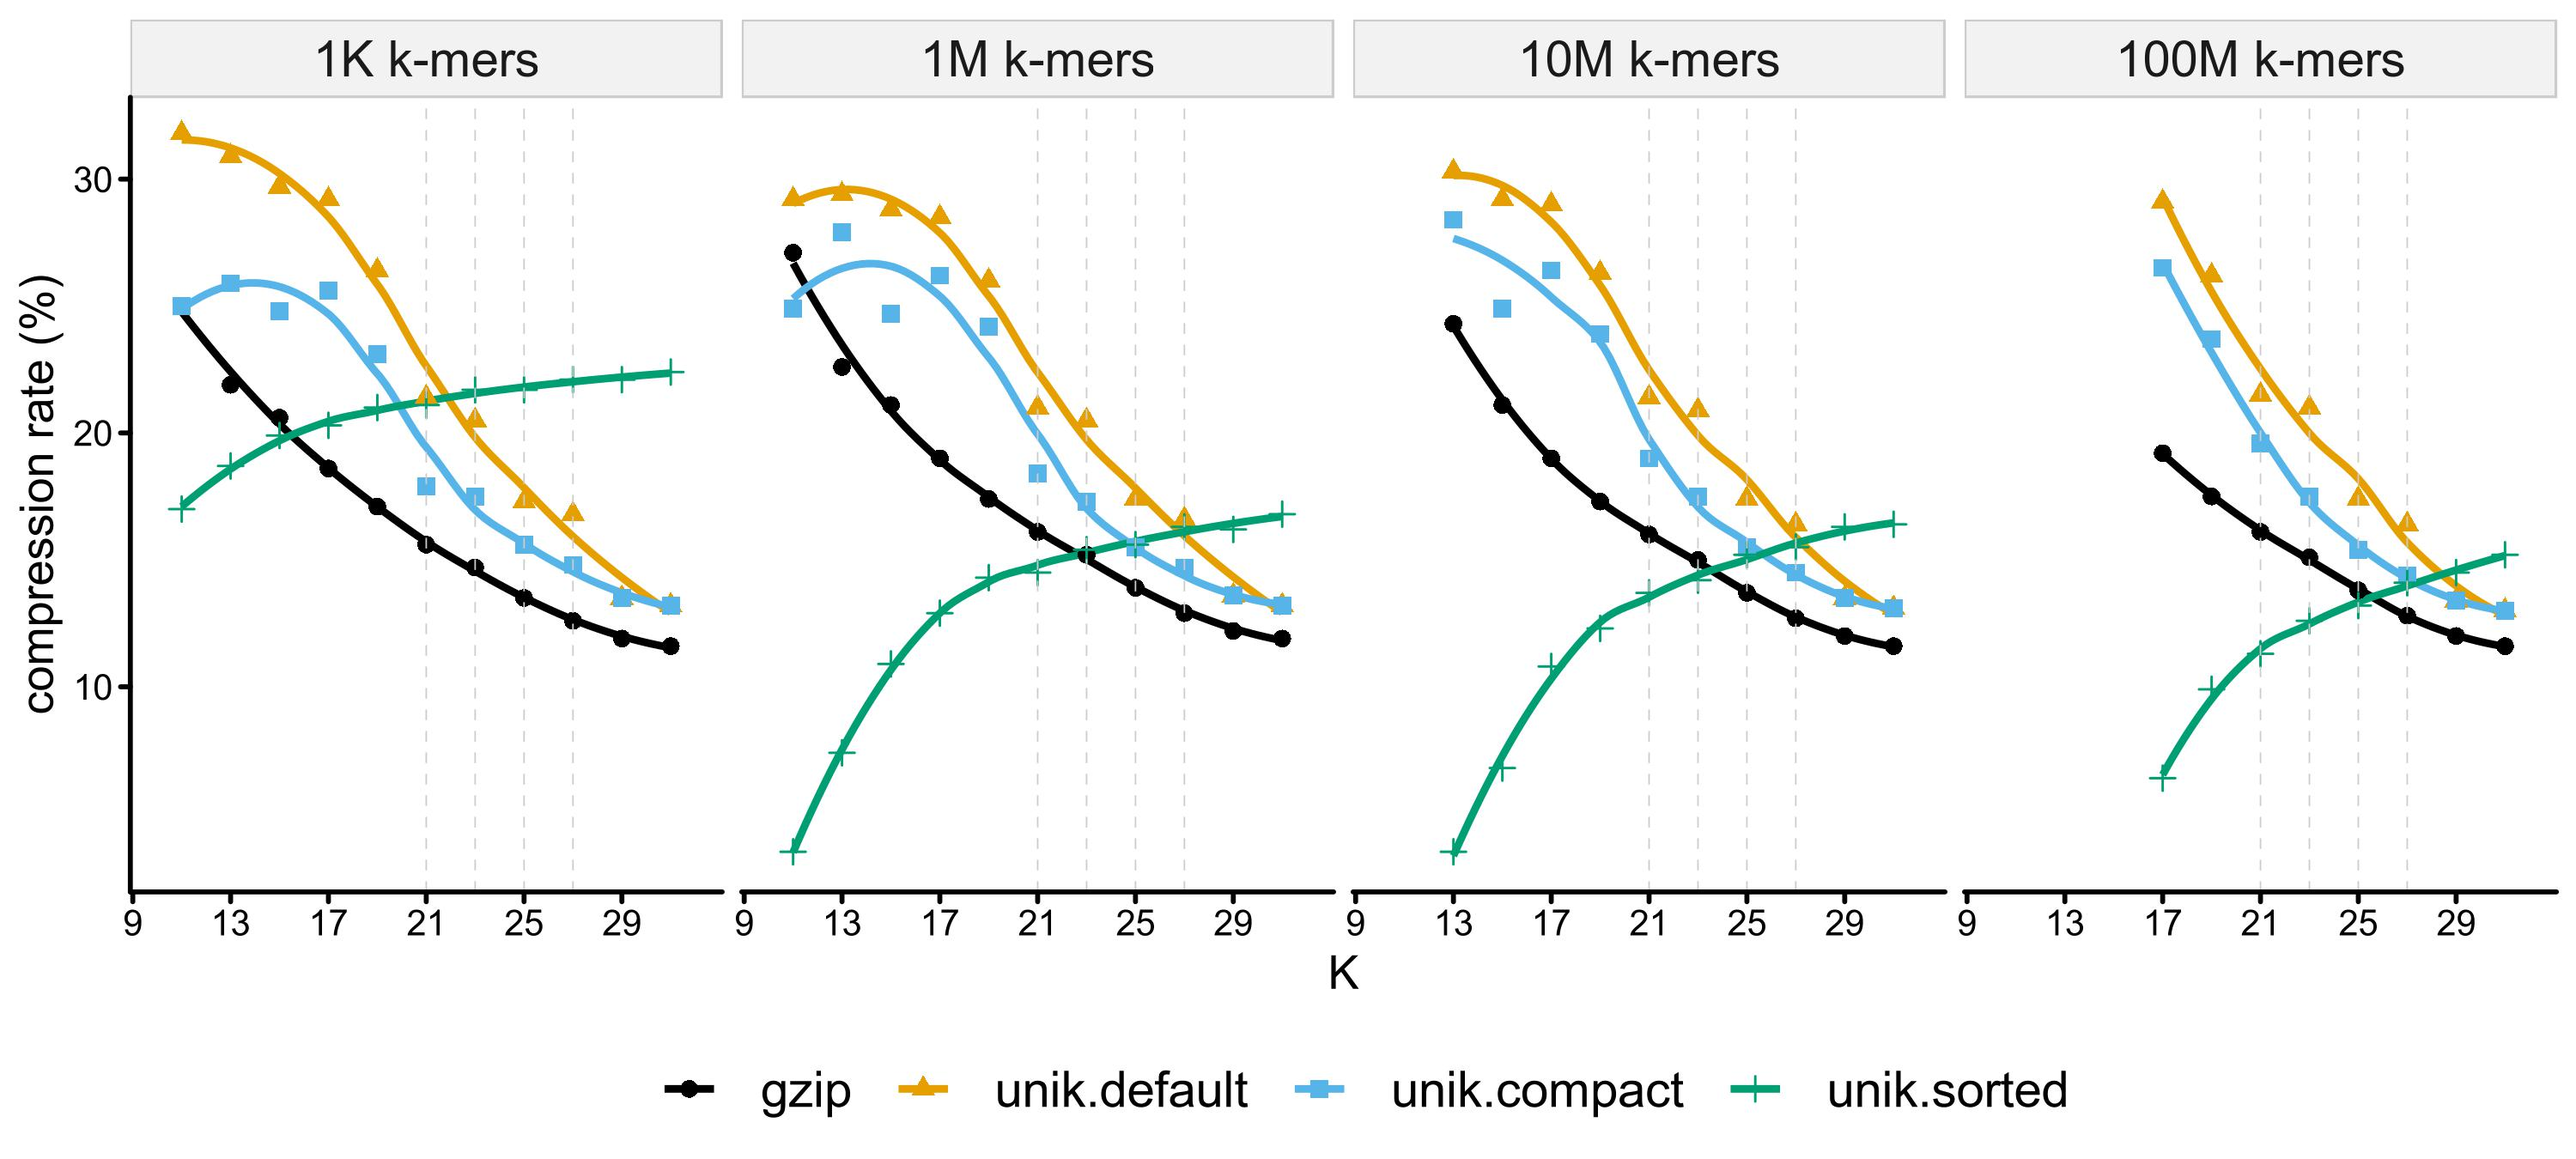
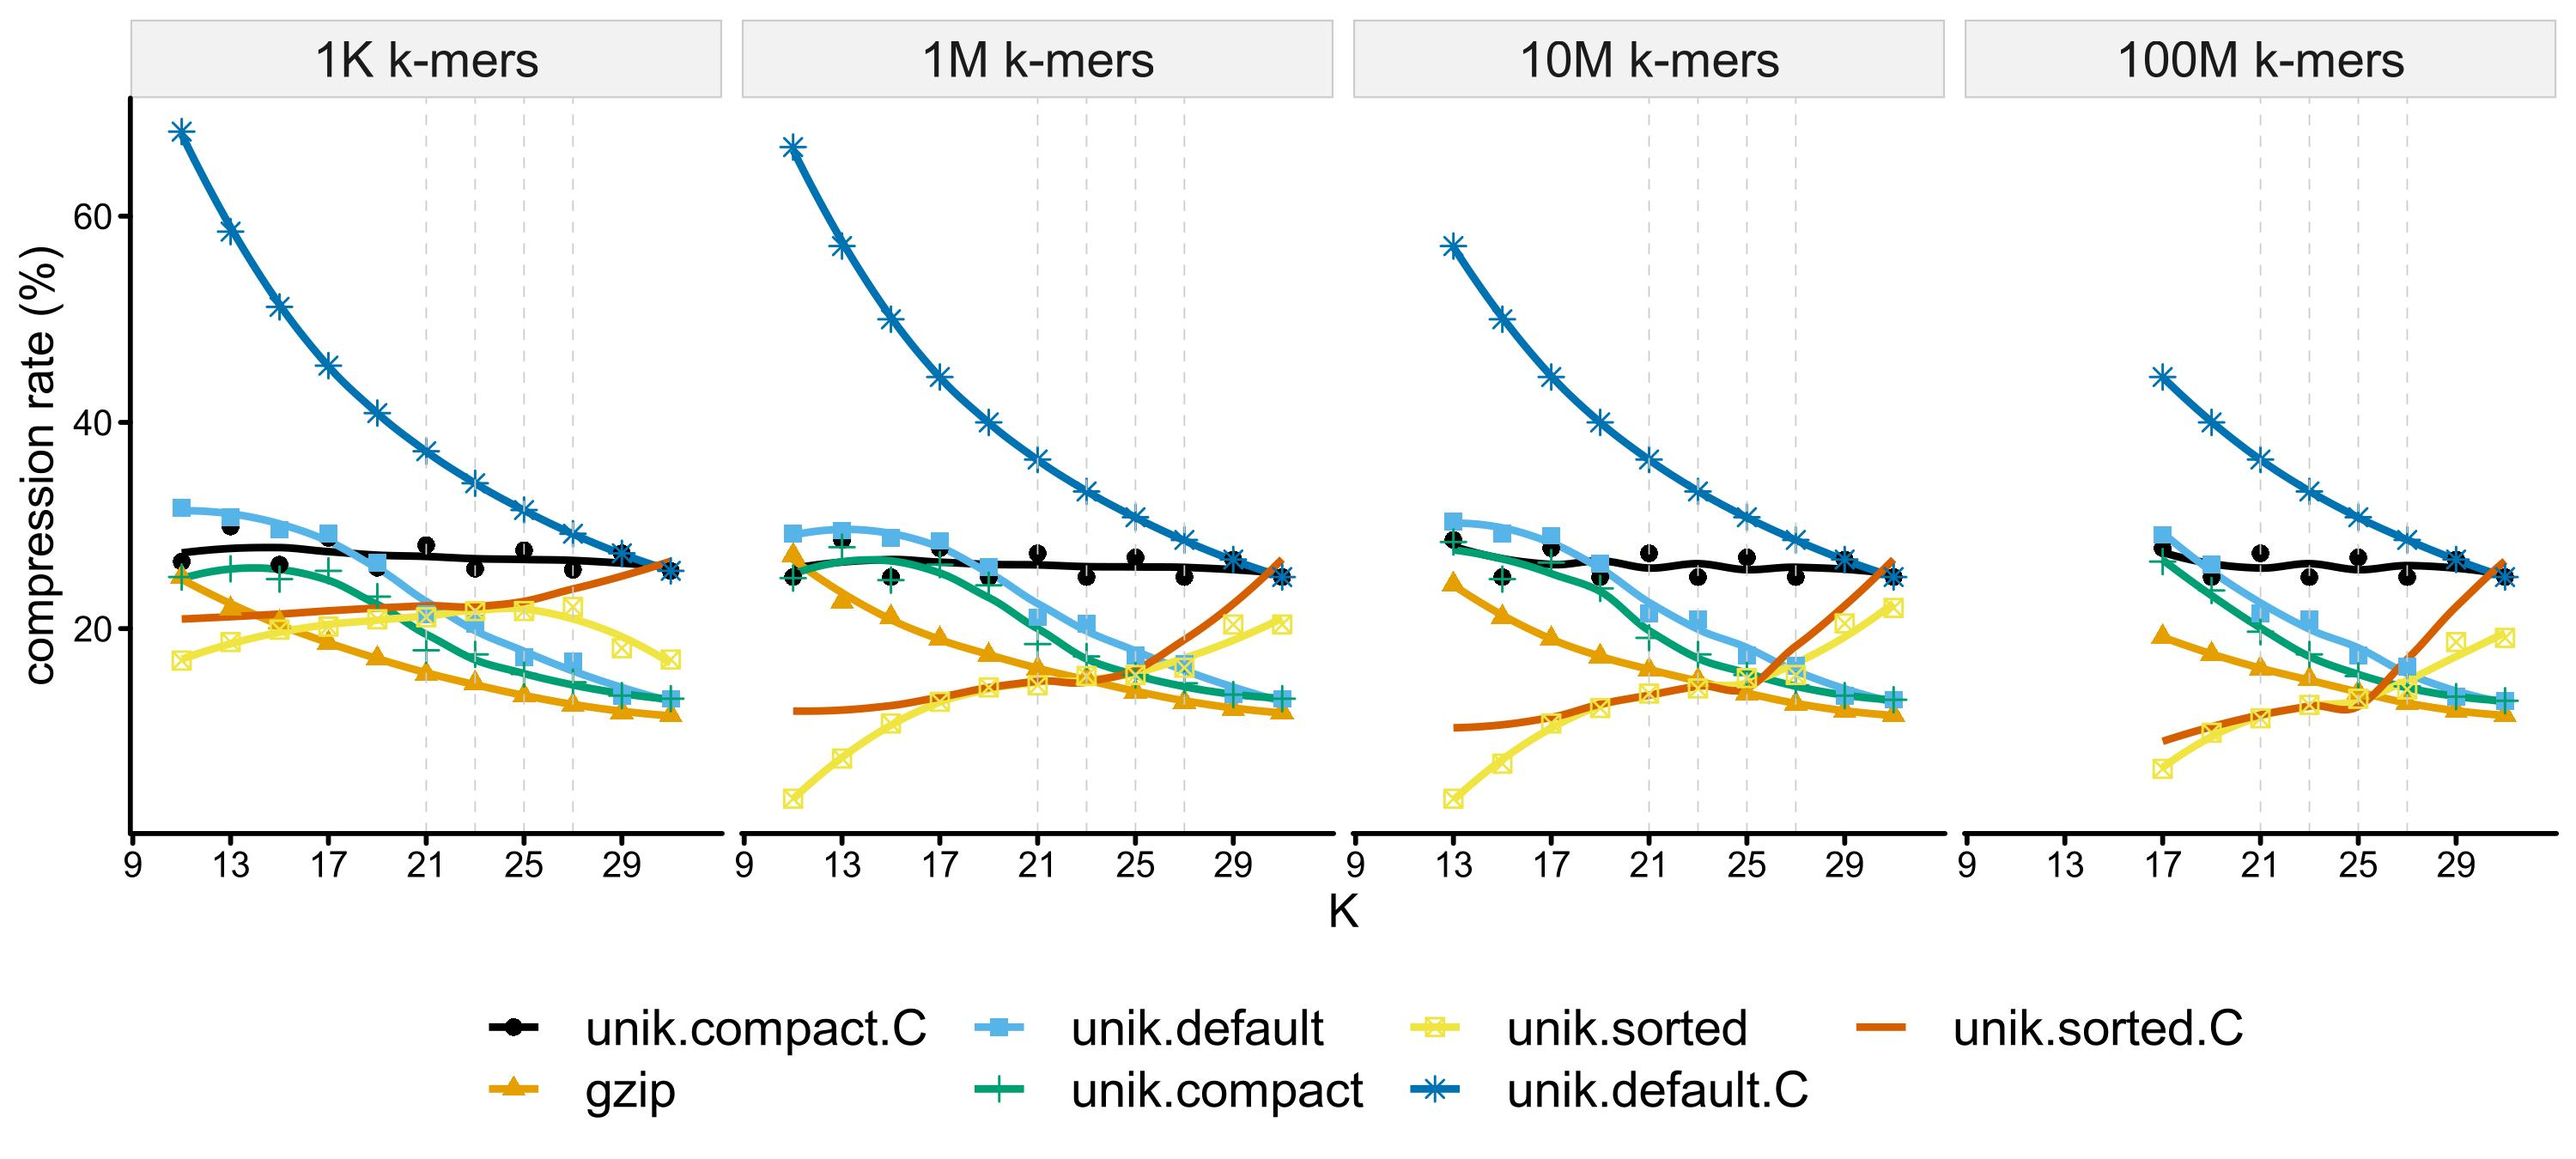
bench result shows pseudo-sort is unnecessary

diff --git a/testdata/README.md b/testdata/README.md
@@ -17,6 +17,9 @@ No Taxids stored.
         | csvtk -t mutate2 -L 1 -n r_unik.default -e '$unik/$plain*100' \
         | csvtk -t mutate2 -L 1 -n r_unik.compact -e '$cunik/$plain*100' \
         | csvtk -t mutate2 -L 1 -n r_unik.sorted -e '$sunik/$plain*100' \
+        | csvtk -t mutate2 -L 1 -n r_unik.default.C -e '$unikC/$plain*100' \
+        | csvtk -t mutate2 -L 1 -n r_unik.compact.C -e '$cunikC/$plain*100' \
+        | csvtk -t mutate2 -L 1 -n r_unik.sorted.C -e '$sunikC/$plain*100' \
         | csvtk -t cut -F -f k,num,r_* \
         | csvtk -t gather -k group -v value -F -f 'r_*' \
         | csvtk -t replace -f group -p 'r_' \
